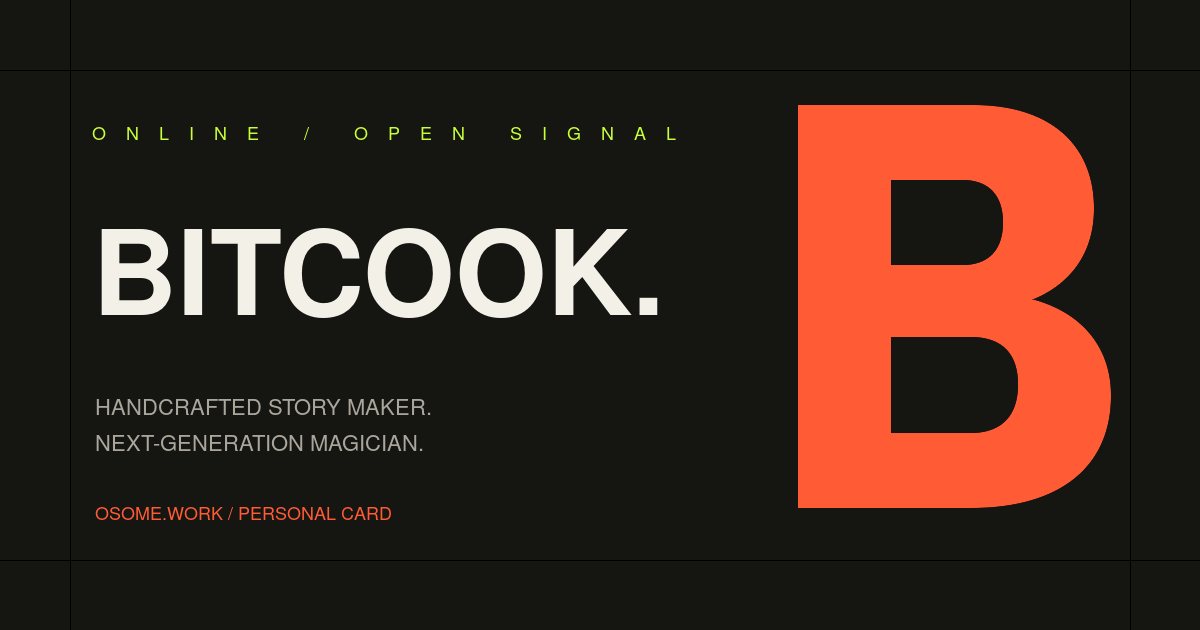
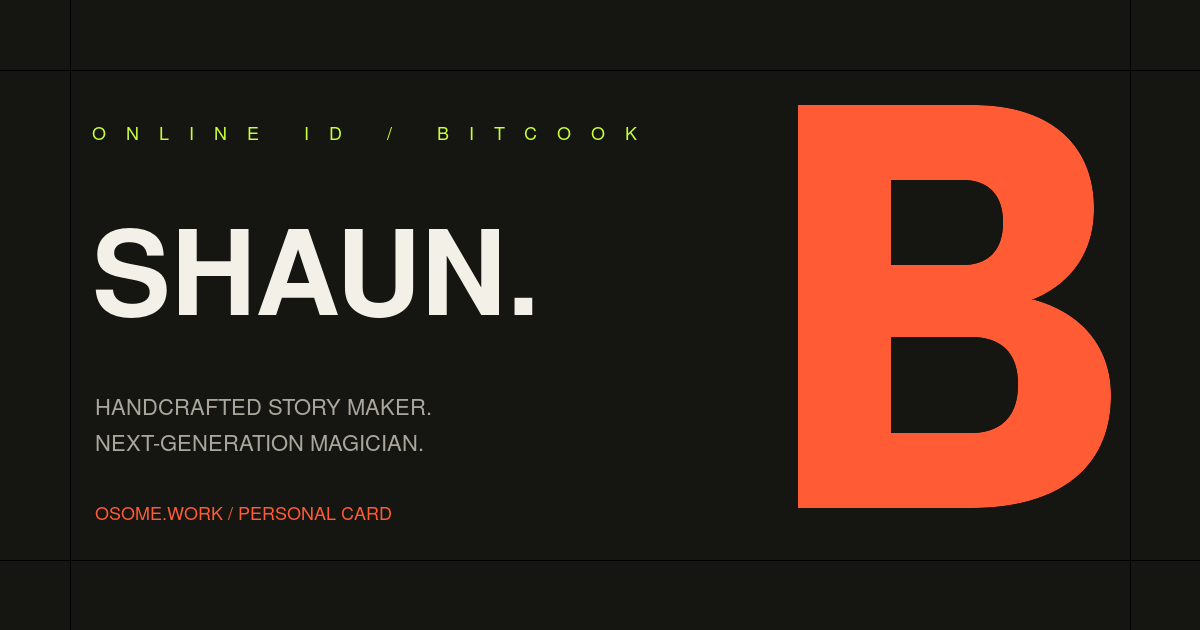
Use Shaun as personal card name

Changed region(s): [[0.0617, 0.3619, 0.555, 0.5127], [0.4317, 0.181, 0.5242, 0.2413], [0.37, 0.181, 0.4008, 0.2413]]

diff --git a/en/index.html b/en/index.html
@@ -3,10 +3,10 @@
   <head>
     <meta charset="utf-8" />
     <meta name="viewport" content="width=device-width, initial-scale=1" />
-    <title>BitCook | Personal Card</title>
+    <title>Shaun | Personal Card</title>
     <meta
       name="description"
-      content="BitCook's personal card. Journal, GitHub, X, Telegram, and digital workshop."
+      content="Shaun's personal card. Online as BitCook, with links to the journal, GitHub, X, Telegram, and the osome.work digital workshop."
     />
     <meta name="theme-color" content="#151512" />
     <meta name="color-scheme" content="dark light" />
@@ -19,7 +19,7 @@
     <link rel="icon" href="/assets/img/favicon.svg" type="image/svg+xml" />
     <link rel="manifest" href="/site.webmanifest" />
     <meta property="og:type" content="profile" />
-    <meta property="og:title" content="BitCook | Personal Card" />
+    <meta property="og:title" content="Shaun | Personal Card" />
     <meta
       property="og:description"
       content="Handcrafted Story Maker. Next-Generation Magician."
@@ -35,8 +35,8 @@
       {
         "@context": "https://schema.org",
         "@type": "Person",
-        "name": "BitCook",
-        "alternateName": "bit-cook",
+        "name": "Shaun",
+        "alternateName": "BitCook",
         "url": "https://osome.work/en/",
         "sameAs": [
           "https://www.bitcook.org/",
@@ -51,11 +51,11 @@
     <a class="skip-link" href="#card">Skip to card</a>
     <div class="ambient" aria-hidden="true"><i></i><i></i></div>
     <header class="card-header">
-      <a class="mark" href="/en/" aria-label="BitCook home"
+      <a class="mark" href="/en/" aria-label="Shaun home"
         ><svg viewBox="0 0 48 48" aria-hidden="true">
           <path d="M8 8h19a9 9 0 0 1 0 18H8z" />
           <path d="M8 22h22a9 9 0 0 1 0 18H8z" /></svg
-        ><span>BITCOOK</span></a
+        ><span>SHAUN</span></a
       >
       <nav aria-label="Page options">
         <a href="/" lang="zh-CN" hreflang="zh-CN">中文</a
@@ -72,10 +72,11 @@
       <section class="identity" aria-labelledby="name">
         <div class="signal"><span></span>ONLINE / OPEN SIGNAL</div>
         <p class="intro">Hello, I am</p>
-        <h1 id="name">BitCook<span>.</span></h1>
+        <h1 id="name">Shaun<span>.</span></h1>
         <p class="role">
           Handcrafted Story Maker.<br />Next-Generation Magician.
         </p>
+        <p class="alias">ONLINE ID / BITCOOK</p>
         <p class="bio">
           Exploring the space between code, narrative, and intelligent
           agents.<br />This is my coordinate on the open web.
@@ -117,7 +118,7 @@
           <a class="workshop-link" href="/workshop/en/"
             ><span class="number">05</span
             ><span
-              ><strong>Digital Workshop</strong
+              ><strong>osome.work Digital Workshop</strong
               ><small>Enter the full projects and experiments page</small></span
             ><i>→</i></a
           >
@@ -126,7 +127,7 @@
     </main>
     <footer class="card-footer">
       <p>osome.work</p>
-      <p>© <span data-year>2026</span> BitCook</p>
+      <p>© <span data-year>2026</span> Shaun / BitCook</p>
       <p>STORY × CODE × INTELLIGENCE</p>
     </footer>
     <script src="/assets/js/card.js" defer></script>

diff --git a/index.html b/index.html
@@ -3,10 +3,10 @@
   <head>
     <meta charset="utf-8" />
     <meta name="viewport" content="width=device-width, initial-scale=1" />
-    <title>BitCook | 个人名片</title>
+    <title>Shaun | 个人名片</title>
     <meta
       name="description"
-      content="BitCook 的个人网页名片。博客、GitHub、X、Telegram 与数字工坊。"
+      content="Shaun 的个人网页名片。网络 ID BitCook，连接博客、GitHub、X、Telegram 与 osome.work 数字工坊。"
     />
     <meta name="theme-color" content="#151512" />
     <meta name="color-scheme" content="dark light" />
@@ -19,7 +19,7 @@
     <link rel="icon" href="/assets/img/favicon.svg" type="image/svg+xml" />
     <link rel="manifest" href="/site.webmanifest" />
     <meta property="og:type" content="profile" />
-    <meta property="og:title" content="BitCook | 个人名片" />
+    <meta property="og:title" content="Shaun | 个人名片" />
     <meta property="og:description" content="手工故事艺人，次世代魔法师。" />
     <meta property="og:url" content="https://osome.work/" />
     <meta
@@ -32,8 +32,8 @@
       {
         "@context": "https://schema.org",
         "@type": "Person",
-        "name": "BitCook",
-        "alternateName": "bit-cook",
+        "name": "Shaun",
+        "alternateName": "BitCook",
         "url": "https://osome.work/",
         "sameAs": [
           "https://www.bitcook.org/",
@@ -48,11 +48,11 @@
     <a class="skip-link" href="#card">跳到名片</a>
     <div class="ambient" aria-hidden="true"><i></i><i></i></div>
     <header class="card-header">
-      <a class="mark" href="/" aria-label="BitCook 首页"
+      <a class="mark" href="/" aria-label="Shaun 首页"
         ><svg viewBox="0 0 48 48" aria-hidden="true">
           <path d="M8 8h19a9 9 0 0 1 0 18H8z" />
           <path d="M8 22h22a9 9 0 0 1 0 18H8z" /></svg
-        ><span>BITCOOK</span></a
+        ><span>SHAUN</span></a
       >
       <nav aria-label="页面选项">
         <a href="/en/" lang="en" hreflang="en">EN</a
@@ -65,8 +65,9 @@
       <section class="identity" aria-labelledby="name">
         <div class="signal"><span></span>ONLINE / OPEN SIGNAL</div>
         <p class="intro">你好，我是</p>
-        <h1 id="name">BitCook<span>.</span></h1>
+        <h1 id="name">Shaun<span>.</span></h1>
         <p class="role">手工故事艺人<br />次世代魔法师</p>
+        <p class="alias">网络 ID / BitCook</p>
         <p class="bio">
           在代码、叙事与智能体的交界处探索。<br />这里是我的网络坐标，也是找到我的最短路径。
         </p>
@@ -103,7 +104,7 @@
           <a class="workshop-link" href="/workshop/"
             ><span class="number">05</span
             ><span
-              ><strong>数字工坊</strong
+              ><strong>osome.work 数字工坊</strong
               ><small>进入完整作品与实验页面</small></span
             ><i>→</i></a
           >
@@ -112,7 +113,7 @@
     </main>
     <footer class="card-footer">
       <p>osome.work</p>
-      <p>© <span data-year>2026</span> BitCook</p>
+      <p>© <span data-year>2026</span> Shaun / BitCook</p>
       <p>STORY × CODE × INTELLIGENCE</p>
     </footer>
     <script src="/assets/js/card.js" defer></script>

diff --git a/workshop/en/index.html b/workshop/en/index.html
@@ -6,7 +6,7 @@
     <title>osome.work | Digital Workshop</title>
     <meta
       name="description"
-      content="osome.work is a digital workshop created by BitCook for AI agents, open technology, and self-writing experiments."
+      content="osome.work is a digital workshop created by Shaun, online as BitCook, for AI agents, open technology, and self-writing experiments."
     />
     <meta name="theme-color" content="#11100e" />
     <meta name="color-scheme" content="dark light" />
@@ -58,7 +58,8 @@
         "url": "https://osome.work/workshop/en/",
         "creator": {
           "@type": "Person",
-          "name": "BitCook",
+          "name": "Shaun",
+          "alternateName": "BitCook",
           "url": "https://osome.work/en/"
         }
       }
@@ -166,9 +167,9 @@
           <div class="split-copy">
             <p>
               osome.work is an ever-changing personal digital workshop created
-              by BitCook. It explores how AI can become a creative partner, and
-              how open technology can help individuals preserve memory, extend
-              capability, and own their tools.
+              by Shaun, online as BitCook. It explores how AI can become a
+              creative partner, and how open technology can help individuals
+              preserve memory, extend capability, and own their tools.
             </p>
             <p>
               Every project is a runnable version of a question: Can agents
@@ -333,7 +334,9 @@
         ><span>OSOME.WORK</span></a
       >
       <p>Handcrafted Story Maker. Next-Generation Magician.</p>
-      <p>© <span data-year>2026</span> osome.work · Created by BitCook.</p>
+      <p>
+        © <span data-year>2026</span> osome.work · Created by Shaun / BitCook.
+      </p>
     </footer>
     <script src="/assets/js/main.js" defer></script>
   </body>

diff --git a/workshop/index.html b/workshop/index.html
@@ -6,7 +6,7 @@
     <title>osome.work | 数字工坊</title>
     <meta
       name="description"
-      content="osome.work 数字工坊：由 BitCook 创建，探索 AI Agent、开放技术与自我书写的实验项目。"
+      content="osome.work 数字工坊：由 Shaun（网络 ID：BitCook）创建，探索 AI Agent、开放技术与自我书写的实验项目。"
     />
     <meta name="theme-color" content="#11100e" />
     <meta name="color-scheme" content="dark light" />
@@ -58,7 +58,8 @@
         "url": "https://osome.work/workshop/",
         "creator": {
           "@type": "Person",
-          "name": "BitCook",
+          "name": "Shaun",
+          "alternateName": "BitCook",
           "url": "https://osome.work/"
         }
       }
@@ -152,7 +153,7 @@
           <h2>让程序拥有想象力，<br />让想法拥有执行力。</h2>
           <div class="split-copy">
             <p>
-              osome.work 是一个由 BitCook
+              osome.work 是一个由 Shaun（网络 ID：BitCook）
               创建、持续变化的个人数字工坊。这里关注人工智能如何成为创作伙伴，也关注开放技术如何帮助个体保存记忆、扩展能力并建立自己的工具。
             </p>
             <p>
@@ -310,7 +311,9 @@
         ><span>OSOME.WORK</span></a
       >
       <p>手工故事艺人，次世代魔法师。</p>
-      <p>© <span data-year>2026</span> osome.work · Created by BitCook.</p>
+      <p>
+        © <span data-year>2026</span> osome.work · Created by Shaun / BitCook.
+      </p>
     </footer>
     <script src="/assets/js/main.js" defer></script>
   </body>

diff --git a/404.html b/404.html
@@ -3,7 +3,7 @@
   <head>
     <meta charset="utf-8" />
     <meta name="viewport" content="width=device-width, initial-scale=1" />
-    <title>404 | Signal Lost · BitCook</title>
+    <title>404 | Signal Lost · Shaun</title>
     <meta name="robots" content="noindex" />
     <meta name="theme-color" content="#11100e" />
     <meta name="color-scheme" content="dark light" />
@@ -22,7 +22,7 @@
           >
         </h1>
         <p>你寻找的页面可能已经移动、重命名，或者从未存在。</p>
-        <a class="button primary" href="/">返回数字工坊 <span>↖</span></a>
+        <a class="button primary" href="/">返回个人名片 <span>↖</span></a>
       </section>
     </main>
     <script src="/assets/js/main.js" defer></script>

diff --git a/assets/css/card.css b/assets/css/card.css
@@ -190,6 +190,12 @@ button {
   line-height: 1.35;
   letter-spacing: -0.02em;
 }
+.alias {
+  margin: 0.8rem 0 0;
+  color: var(--accent);
+  font: 0.64rem var(--mono);
+  letter-spacing: 0.14em;
+}
 .bio {
   max-width: 39rem;
   margin: 1.5rem 0 0;

diff --git a/README.md b/README.md
@@ -1,6 +1,6 @@
 # osome.work
 
-BitCook's bilingual personal card and the osome.work digital workshop, built as a dependency-free static website and deployed with GitHub Pages.
+Shaun's bilingual personal card (online as BitCook) and the osome.work digital workshop, built as a dependency-free static website and deployed with GitHub Pages.
 
 ## Structure
 
